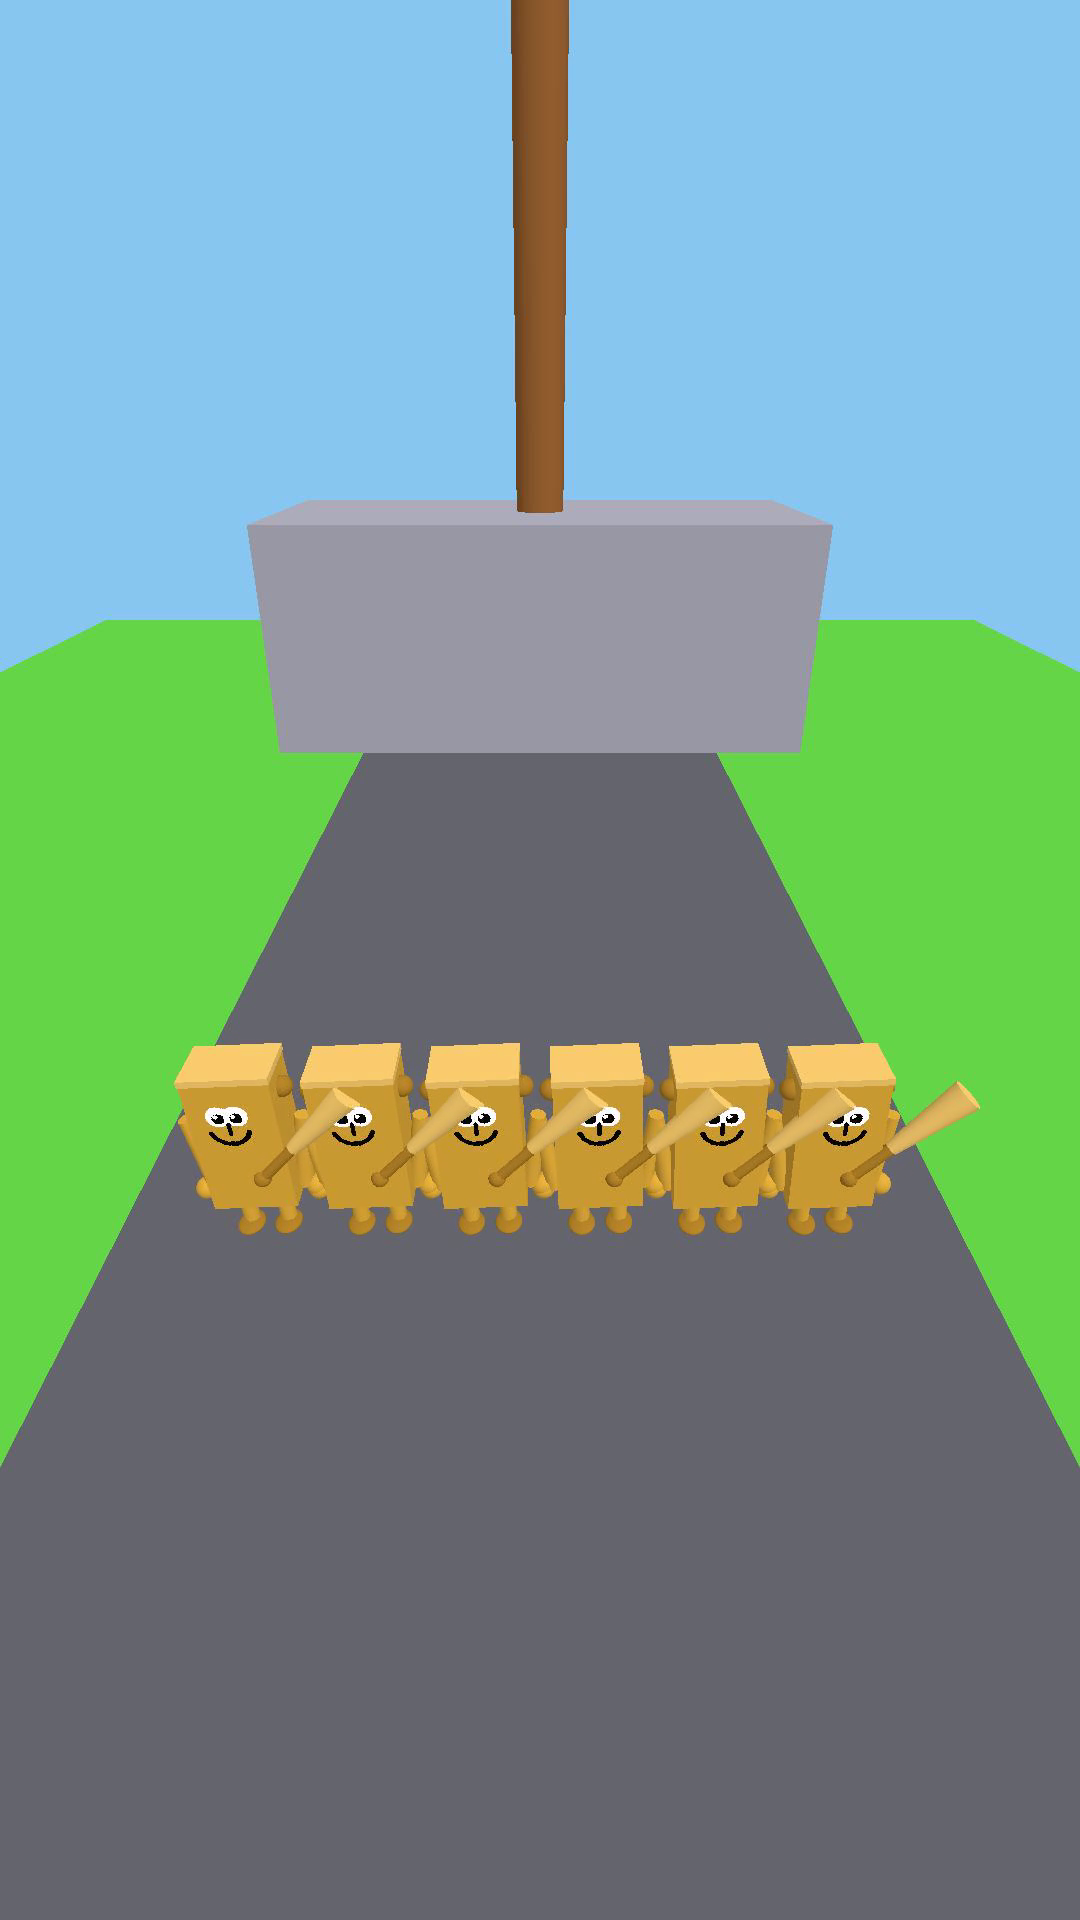
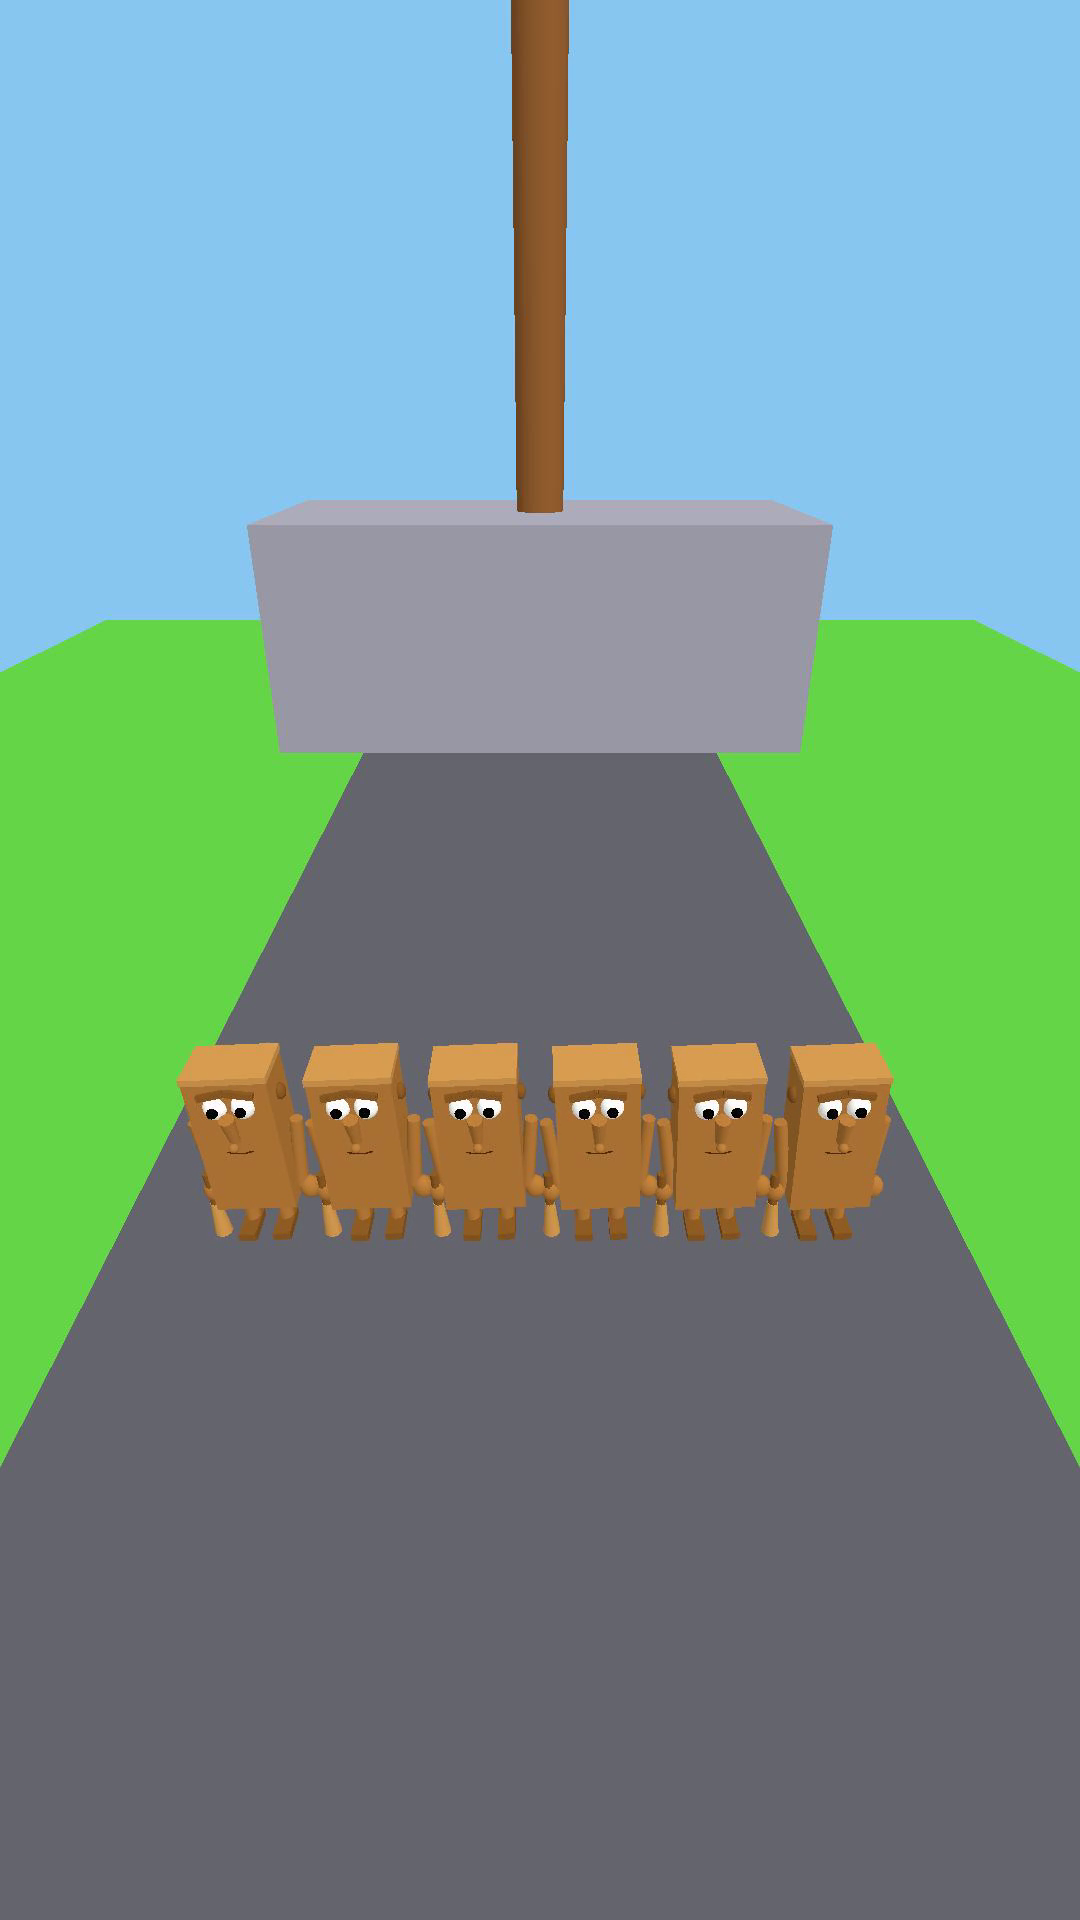
Plonko v4: rebuilt against actual Tung Tung Sahur reference (ADR-007b)

Changed region(s): [[0.1528, 0.5312, 0.9167, 0.6562]]

diff --git a/game/content/characters/plonko/REFERENCE_NOTE.md b/game/content/characters/plonko/REFERENCE_NOTE.md
@@ -1,21 +1,11 @@
-# REFERENCE NOTE — Plonko (replaces DIFFERENCE_LOG.md, 2026-10-15)
+# Plonko — reference notes (ADR-007b, v4)
 
-Per ADR-007b (Urbish's explicit call): characters are built ~90% visually
-similar to their brainrot reference archetypes. Copyright is handled by
-Urbish himself. The old 20–30% differentiation rule (ADR-007) is superseded.
+Target: Tung Tung Tung Sahur (Italian brainrot). Built ~90% visually similar
+per Urbish's explicit call; copyright handled by him.
 
-## Reference archetype
-Log-warrior with baseball bat (Tung Tung Tung Sahur style): vertical wooden
-log body, cut-wood top, two arms gripping a tapered baseball bat held
-diagonal across the body, stern/angry face, small feet.
-
-## What Plonko keeps (the ~10%)
-- Name: Plonko (own name).
-- Procedural angry-face decal in the channel's house style (not traced art).
-- Flat Lambert shading, low-poly primitive construction matching the
-  factory's house style.
-- Idle bob/wobble animation and squash-on-impact behavior (factory rig).
-
-## Phase 2 (later)
-After 2–3 video concepts each cross 10K views on YouTube, characters get
-edited with our own twist.
+v4 matches the actual reference:
+- Warm wood-brown plank body (tall rectangle, cut-wood top cap)
+- 3D face: bulging close-set white eyes + pupils, heavy brow ridges,
+  LONG nose (signature feature), wide cheerful smile
+- Ear nubs, thin arms with mitten hands, thin legs with flat feet
+- Baseball bat held DOWN in the right hand
